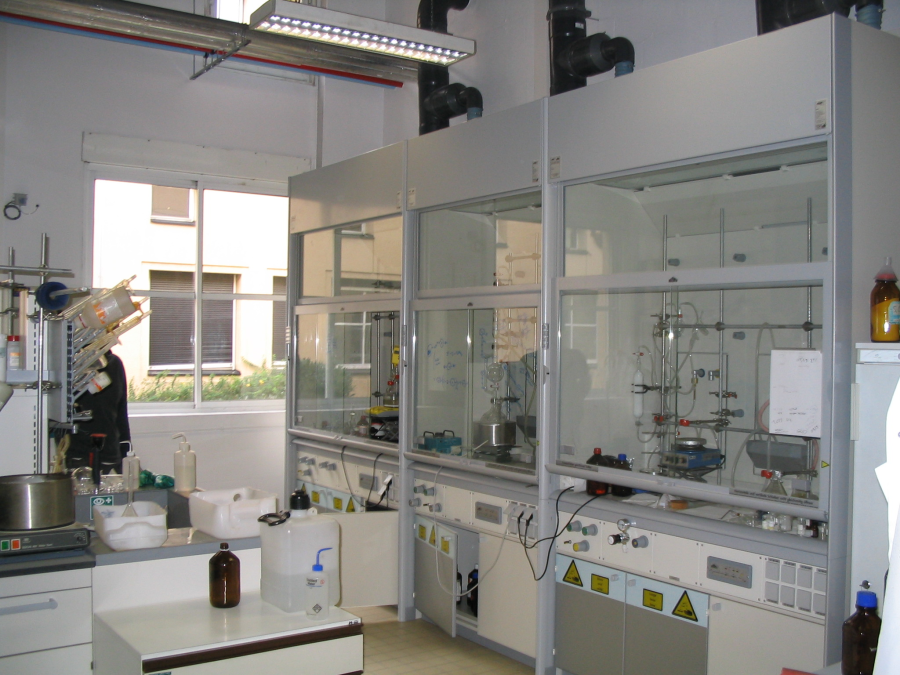
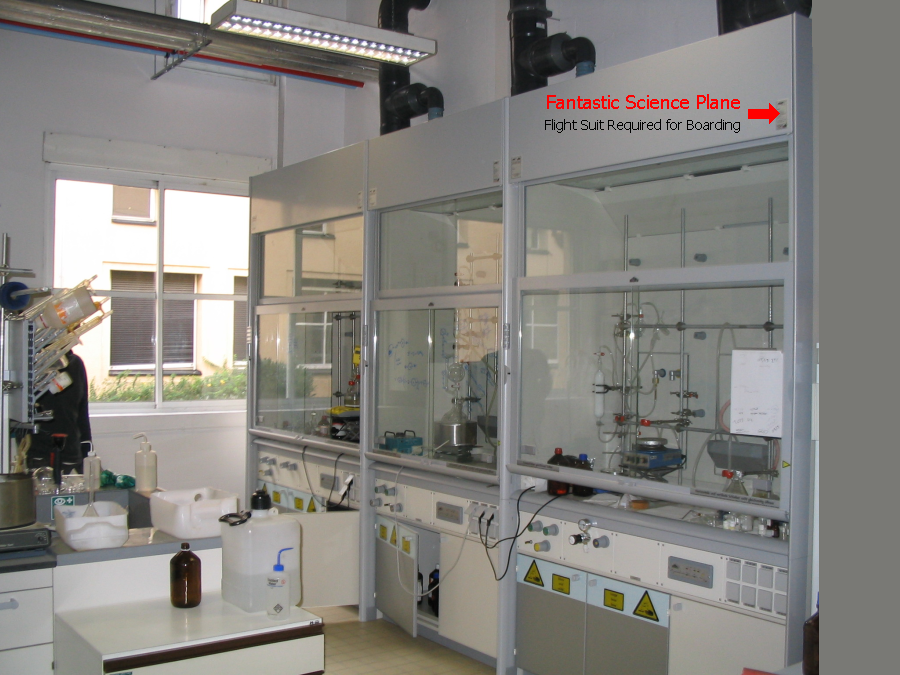
health text replaced with health bars. shield split out of health pool, science plane added

diff --git a/scripts/game_base.js b/scripts/game_base.js
@@ -12,7 +12,7 @@ this.state = state;
 
 //quest states inactive,active,turn_in,complete
 var quest_001 = new quest('Talk with miss AnniePennie','active');
-var quest_002 = new quest('Take the Fantastic Science Plane to track the Ninjas','active');
+var quest_002 = new quest('Board the Fantastic Science Plane','active');
 var story_001 = new story(quest_001);
 
 //event handler for movement
@@ -70,7 +70,13 @@ if (lobby.play_intro == true) {
 //HACK - update npcs positions
     redshirt.x = redshirt.x + 1;
     armor.x = armor.x - 2;
-
+    if (npcs.pogo.contact == true){
+        npcs.pogo.y = npcs.pogo.y + npcs.pogo.speed;
+        //npcs.pogo.speed = npcs.pogo.speed - .1;
+        npcs.pogo.speed = npcs.pogo.speed + (npcs.pogo.speed/50);
+        chars.jim.draw = false;
+        story_001.active_quest.objective = 'Fly to Ninja Palace';
+    }
 
 //check for combat
     for (var i in npcs){
@@ -88,6 +94,12 @@ if (lobby.play_intro == true) {
             }
             if (Math.abs(chars.jim.x - npcs[i].x) < 100) {
                 snd_hit.play();
+                if (chars.jim.shield > 0) {
+                    chars.jim.shield = chars.jim.shield - npcs[i].melee_damage;
+                } else {
+                    chars.jim.hp = chars.jim.hp - npcs[i].melee_damage;
+                }
+                
                 chars.jim.hp = chars.jim.hp - npcs[i].melee_damage;
                 if (chars.jim.state == 'active'){
                     npcs[i].hp = npcs[i].hp - chars.jim.melee_damage;
@@ -109,9 +121,13 @@ if (lobby.play_intro == true) {
         }
     }
     //shield regen
-    if (chars.jim.hp < 25 && chars.jim.state != 'defeated'){
-        chars.jim.hp = chars.jim.hp + 1;
-    } 
+    if (chars.jim.shield < 25 && chars.jim.state != 'defeated'){
+        chars.jim.shield = chars.jim.shield + 1;
+    }
+    //health regen
+    if (chars.jim.hp < 10 && chars.jim.state != 'defeated'){
+        chars.jim.hp = chars.jim.hp + .1;
+    }
 }
 
 game_base.draw = function() {
@@ -151,8 +167,15 @@ game_base.draw = function() {
 
         for (var i in npcs) {
             if (npcs[i].draw && npcs[i].type == 'enemy'){
-                _canvasBufferContext.fillStyle    = '#f00';
-                _canvasBufferContext.fillText(npcs[i].hp, npcs[i].x + 25, npcs[i].y - 50);
+                //_canvasBufferContext.fillStyle    = '#f00';
+                //_canvasBufferContext.fillText(npcs[i].hp, npcs[i].x + 25, npcs[i].y - 50);
+                _canvasBufferContext.strokeStyle = '#f00';
+                _canvasBufferContext.lineWidth   = 4;
+                _canvasBufferContext.beginPath();
+                _canvasBufferContext.moveTo(npcs[i].x + 25, npcs[i].y - 25);
+                _canvasBufferContext.lineTo(npcs[i].x + 25 + (npcs[i].hp/2), npcs[i].y - 25);
+                _canvasBufferContext.stroke();       
+                _canvasBufferContext.closePath();
             }   
         }
 
@@ -163,6 +186,7 @@ game_base.draw = function() {
             //entering quest
                 if (Math.abs(chars.jim.x - npcs[i].x) < 100) {
                     //snd_hit.play();
+                    npcs[i].contact = true;
                     _canvasBufferContext.fillStyle = '#aaa';
                     _canvasBufferContext.fillRect(npcs[i].x - 100, npcs[i].y - 75, 200, 25);
                     _canvasBufferContext.fillStyle    = '#00f';
@@ -175,6 +199,7 @@ game_base.draw = function() {
                         story_001.active_quest.objective = 'Quest Complete: Save the Lemur!';
                         story_001.active_quest.state = 'complete';
                         chars.jim.suit = 'red armor';
+                        chars.jim.hp = 100;
                         scenes.launch = launch;
                         scenes.lab2.right_transition = 'launch';
                         story_001.active_quest = quest_002;
@@ -188,6 +213,8 @@ game_base.draw = function() {
                         story_001.active_quest.state = 'turn_in';
                         npcs[i].type = 'tutorial';  
                     }
+                    
+
                 }
             }
         }
@@ -195,8 +222,29 @@ game_base.draw = function() {
 //draw HUD
         _canvasBufferContext.fillStyle = '#0a0';
         _canvasBufferContext.fillRect(0, 0 , 800, 25);
+        //_canvasBufferContext.fillStyle = '#0F0';
+        //_canvasBufferContext.fillText(chars.jim.hp, chars.jim.x + 40, chars.jim.y - 25);
+        if (chars.jim.draw){
+        //draw health bar
+        _canvasBufferContext.strokeStyle = '#0F0';
+        _canvasBufferContext.lineWidth   = 4;
+        _canvasBufferContext.beginPath();
+        _canvasBufferContext.moveTo(chars.jim.x + 25, chars.jim.y - 25);                                              _canvasBufferContext.lineTo(chars.jim.x + 25 + (chars.jim.hp/2), chars.jim.y - 25);
+        _canvasBufferContext.stroke();       
+        _canvasBufferContext.closePath();
+
+        //_canvasBufferContext.fillStyle = '#00a';
+        //_canvasBufferContext.fillText(chars.jim.shield, chars.jim.x + 65, chars.jim.y - 25);
+        //draw shield bar
+        _canvasBufferContext.strokeStyle = '#00a';
+        _canvasBufferContext.lineWidth   = 5;
+        _canvasBufferContext.beginPath();
+        _canvasBufferContext.moveTo(chars.jim.x +25 + (chars.jim.hp/2) + 3 , chars.jim.y - 25);                        _canvasBufferContext.lineTo(chars.jim.x +25 + (chars.jim.hp/2) + 3 + (chars.jim.shield/2), chars.jim.y - 25);
+        _canvasBufferContext.stroke();       
+        _canvasBufferContext.closePath();
+        }
         _canvasBufferContext.fillStyle    = '#fff';
-        _canvasBufferContext.fillText(chars.jim.hp, chars.jim.x + 40, chars.jim.y - 50);
+        
         _canvasBufferContext.fillText('xp = ', 10, 5);
         _canvasBufferContext.fillText(chars.jim.xp, 50, 5);
         _canvasBufferContext.fillText('ammo = ', 200, 5);
@@ -222,6 +270,8 @@ game_base.draw = function() {
                     // Start from the top-left point.
                     _canvasBufferContext.moveTo(chars.jim.x + 50, chars.jim.y + 50);                                              _canvasBufferContext.lineTo(npcs[i].x + 50, npcs[i].y + 50);                    
                     _canvasBufferContext.stroke();
+                    _canvasBufferContext.closePath();
+
             }   
         }
 
@@ -229,7 +279,12 @@ game_base.draw = function() {
 //draw the razer beam
         for (var i in npcs) {
             if (npcs[i].draw == true && npcs[i].beam == true && npcs[i].type == 'enemy' && npcs[i].state != 'defeated' && npcs[i].ammo > 0){
-                chars.jim.hp = chars.jim.hp - 1;
+                if (chars.jim.hp > 0){
+                    chars.jim.hp = chars.jim.hp - .5;
+                }
+                if (chars.jim.shield > 0){
+                    chars.jim.shield = chars.jim.shield - 2;
+                }
                 npcs[i].ammo = npcs[i].ammo -.5;
                 if (npcs[i].ammo % 2) {                   
                     _canvasBufferContext.strokeStyle = '#F00';
@@ -241,6 +296,8 @@ game_base.draw = function() {
                  _canvasBufferContext.beginPath();
                  _canvasBufferContext.moveTo(npcs[i].x + 10, npcs[i].y + 50);                                                  _canvasBufferContext.lineTo(chars.jim.x + 50, chars.jim.y + 50);                    
                  _canvasBufferContext.stroke();
+                 _canvasBufferContext.closePath();
+
                                     
             }
         }
@@ -252,7 +309,7 @@ game_base.draw = function() {
 function move (event) {
 
 
-    if (event && chars.jim.state != 'defeated'){
+    if (event && chars.jim.state != 'defeated' && chars.jim.draw){
         var key = event.keyCode;
 
         switch (key) {

diff --git a/scripts/init.js b/scripts/init.js
@@ -15,7 +15,7 @@ var scenes = new Object;
 
 //character(draw,speed,x,y,src,defeated_src,height,scene,type,hp,state,text,xp,ammo,beam,contact,melee_damage,suit)
 //instantiate character and stuff him in the associative array chars
-var jim = new character (true,10,50,505,"./content/images/jim_right.png","./content/images/jim_defeated.png",96,'lobby','hero',100,'active', 'rawr',0,200,false,false,3,'labcoat');
+var jim = new character (true,10,50,505,"./content/images/jim_right.png","./content/images/jim_defeated.png",96,'lobby','hero',100,'active', 'rawr',0,200,false,false,3,'labcoat',25);
 chars.jim = jim;
 //var spidey = new character (false,10,120,505,"./content/images/spidey.png",96,'lobby');
 //chars.spidey = spidey;
@@ -48,7 +48,7 @@ var armor = new character (true,10,600,505,"./content/images/jim_left_white_armo
 var meepo = new character (false,10,600,505,"./content/images/meepo.png","./content/images/meepo.png",96,'lab2','quest',50,'active','Thanks, Im Saved!',0,0,false,false);
 var bunny = new character (true,10,600,505,"./content/images/bunny.png","./content/images/bunny.png",96,'lobby','tutorial',50,'active','press space for Science beam!');
 
-var pogo = new character (false,10,500,275,"./content/images/pogo.png","./content/images/pogo.png",96,'launch','quest',50,'active','Behold the Pogo Plane!',0,0,false,false);
+var pogo = new character (false,-1,500,275,"./content/images/pogo.png","./content/images/pogo.png",96,'launch','quest',50,'active','Behold the Pogo Plane!',0,0,false,false);
 
 npcs.redshirt = redshirt;
 npcs.blueshirt = blueshirt;

diff --git a/scripts/character.js b/scripts/character.js
@@ -1,4 +1,4 @@
-character = function(draw,speed,x,y,src,defeated_src,height,scene,type,hp,state,text,xp,ammo,beam,contact,melee_damage,suit){
+character = function(draw,speed,x,y,src,defeated_src,height,scene,type,hp,state,text,xp,ammo,beam,contact,melee_damage,suit,shield){
 this.draw = draw;
 this.speed = speed;
 this.x = x;
@@ -20,4 +20,5 @@ this.beam = beam;
 this.contact = contact;
 this.melee_damage = melee_damage;
 this.suit = suit;
+this.shield = shield;
 }
